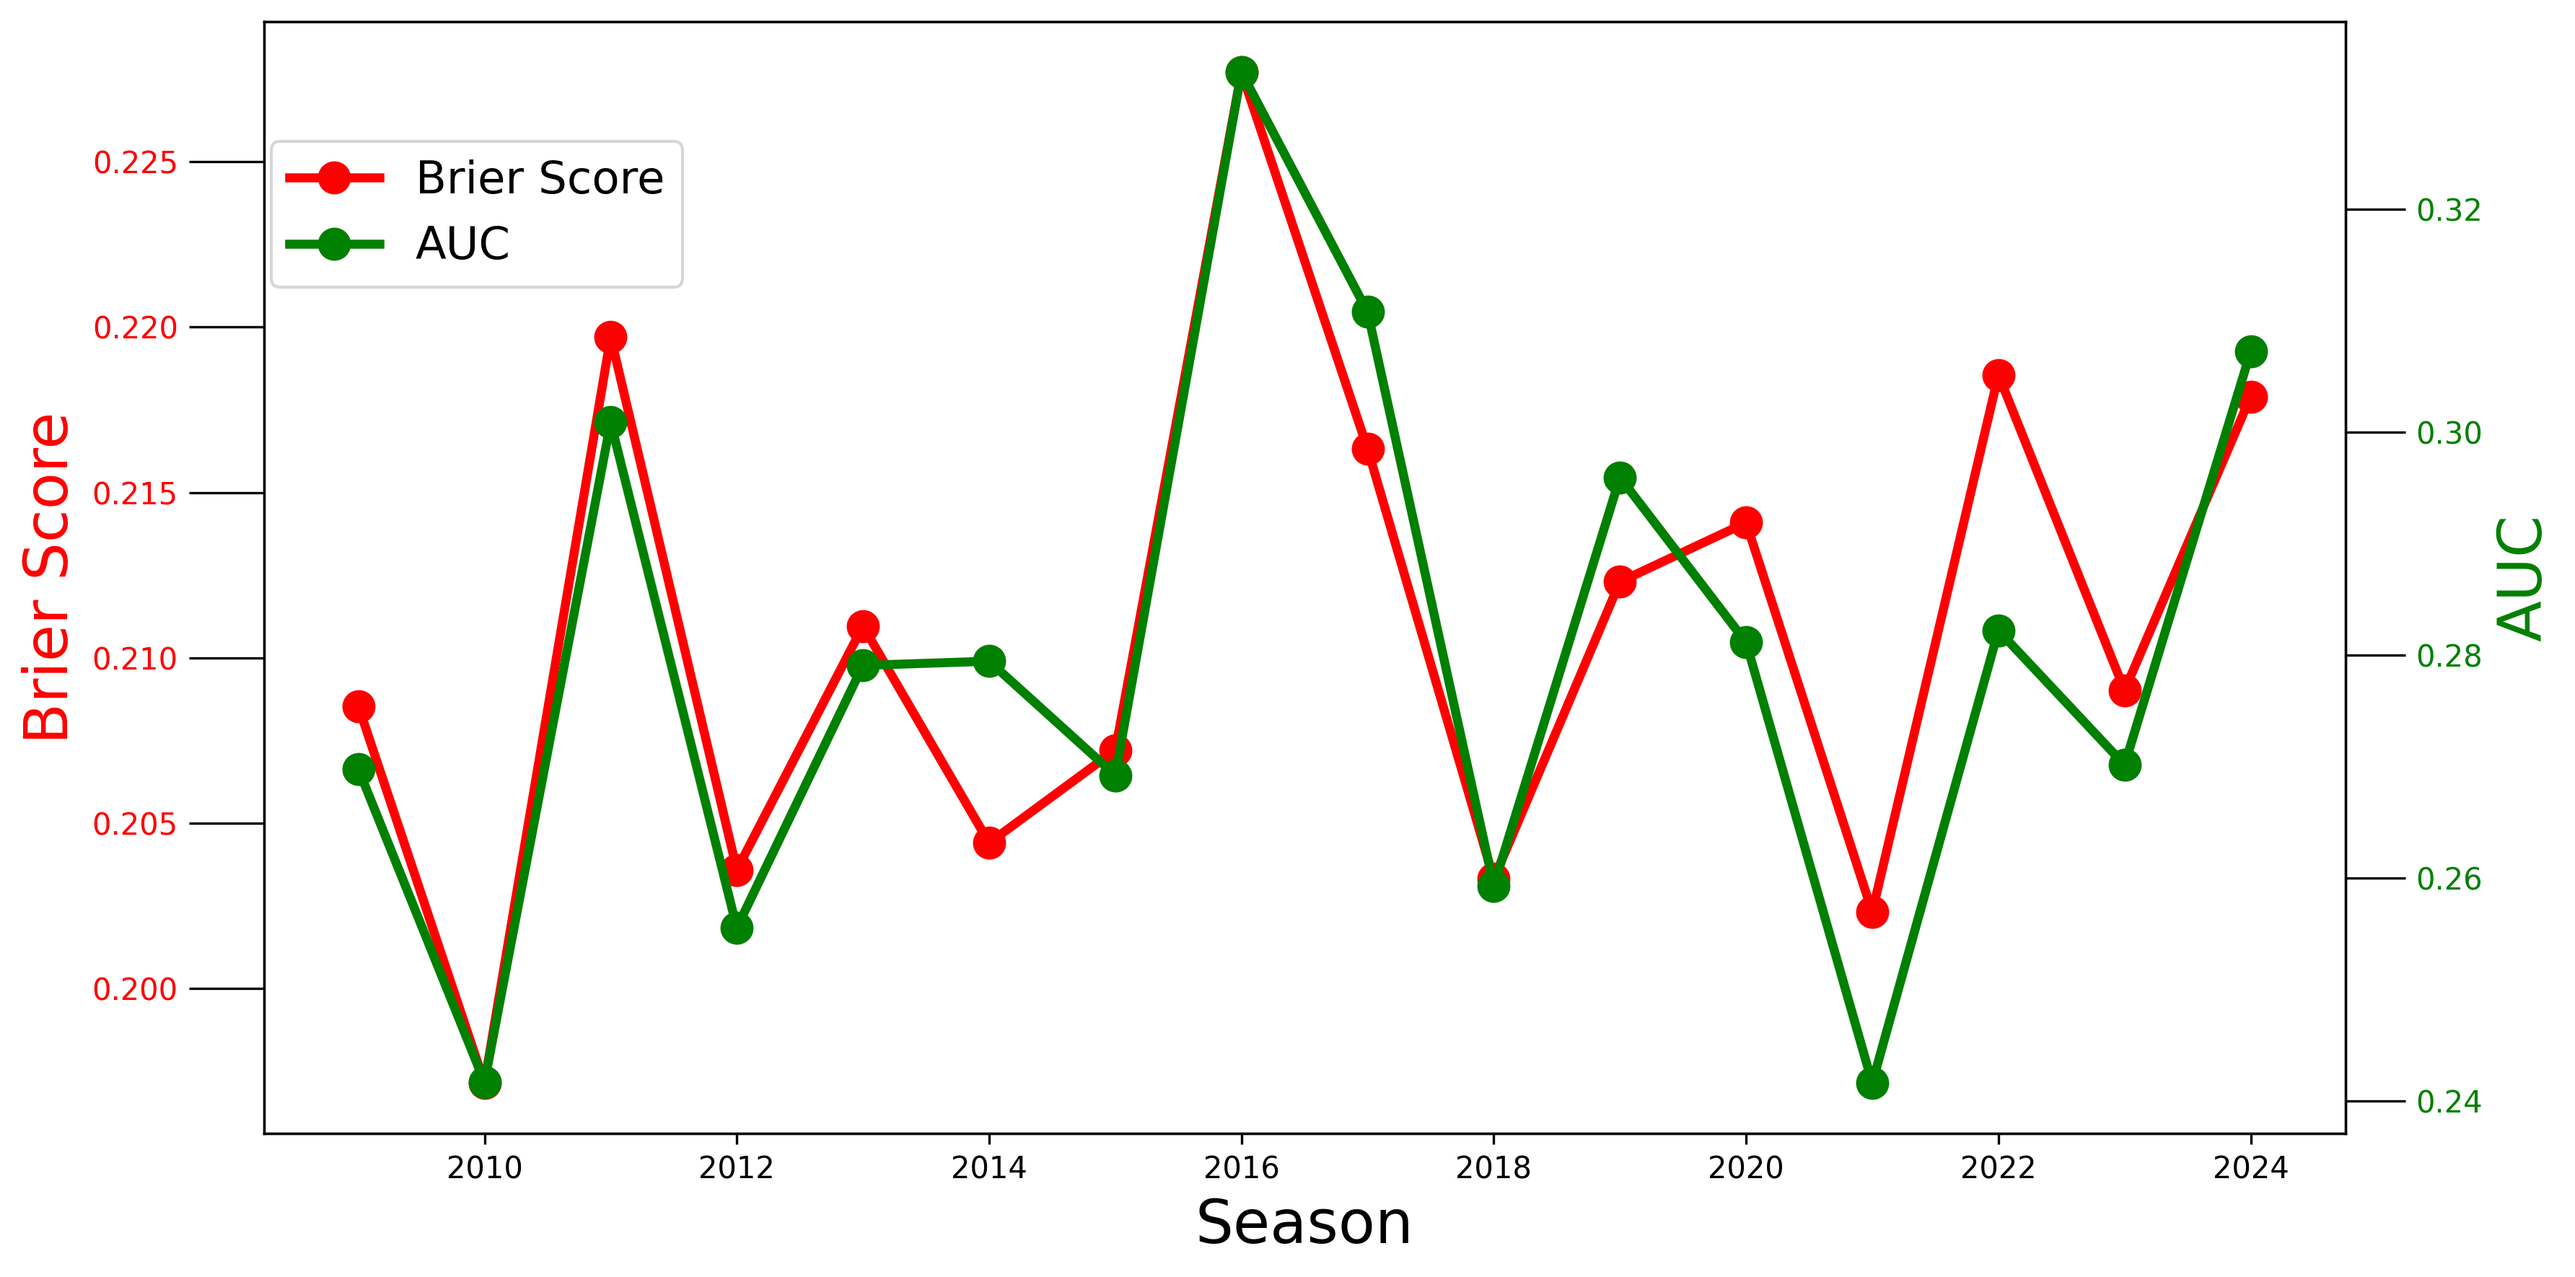
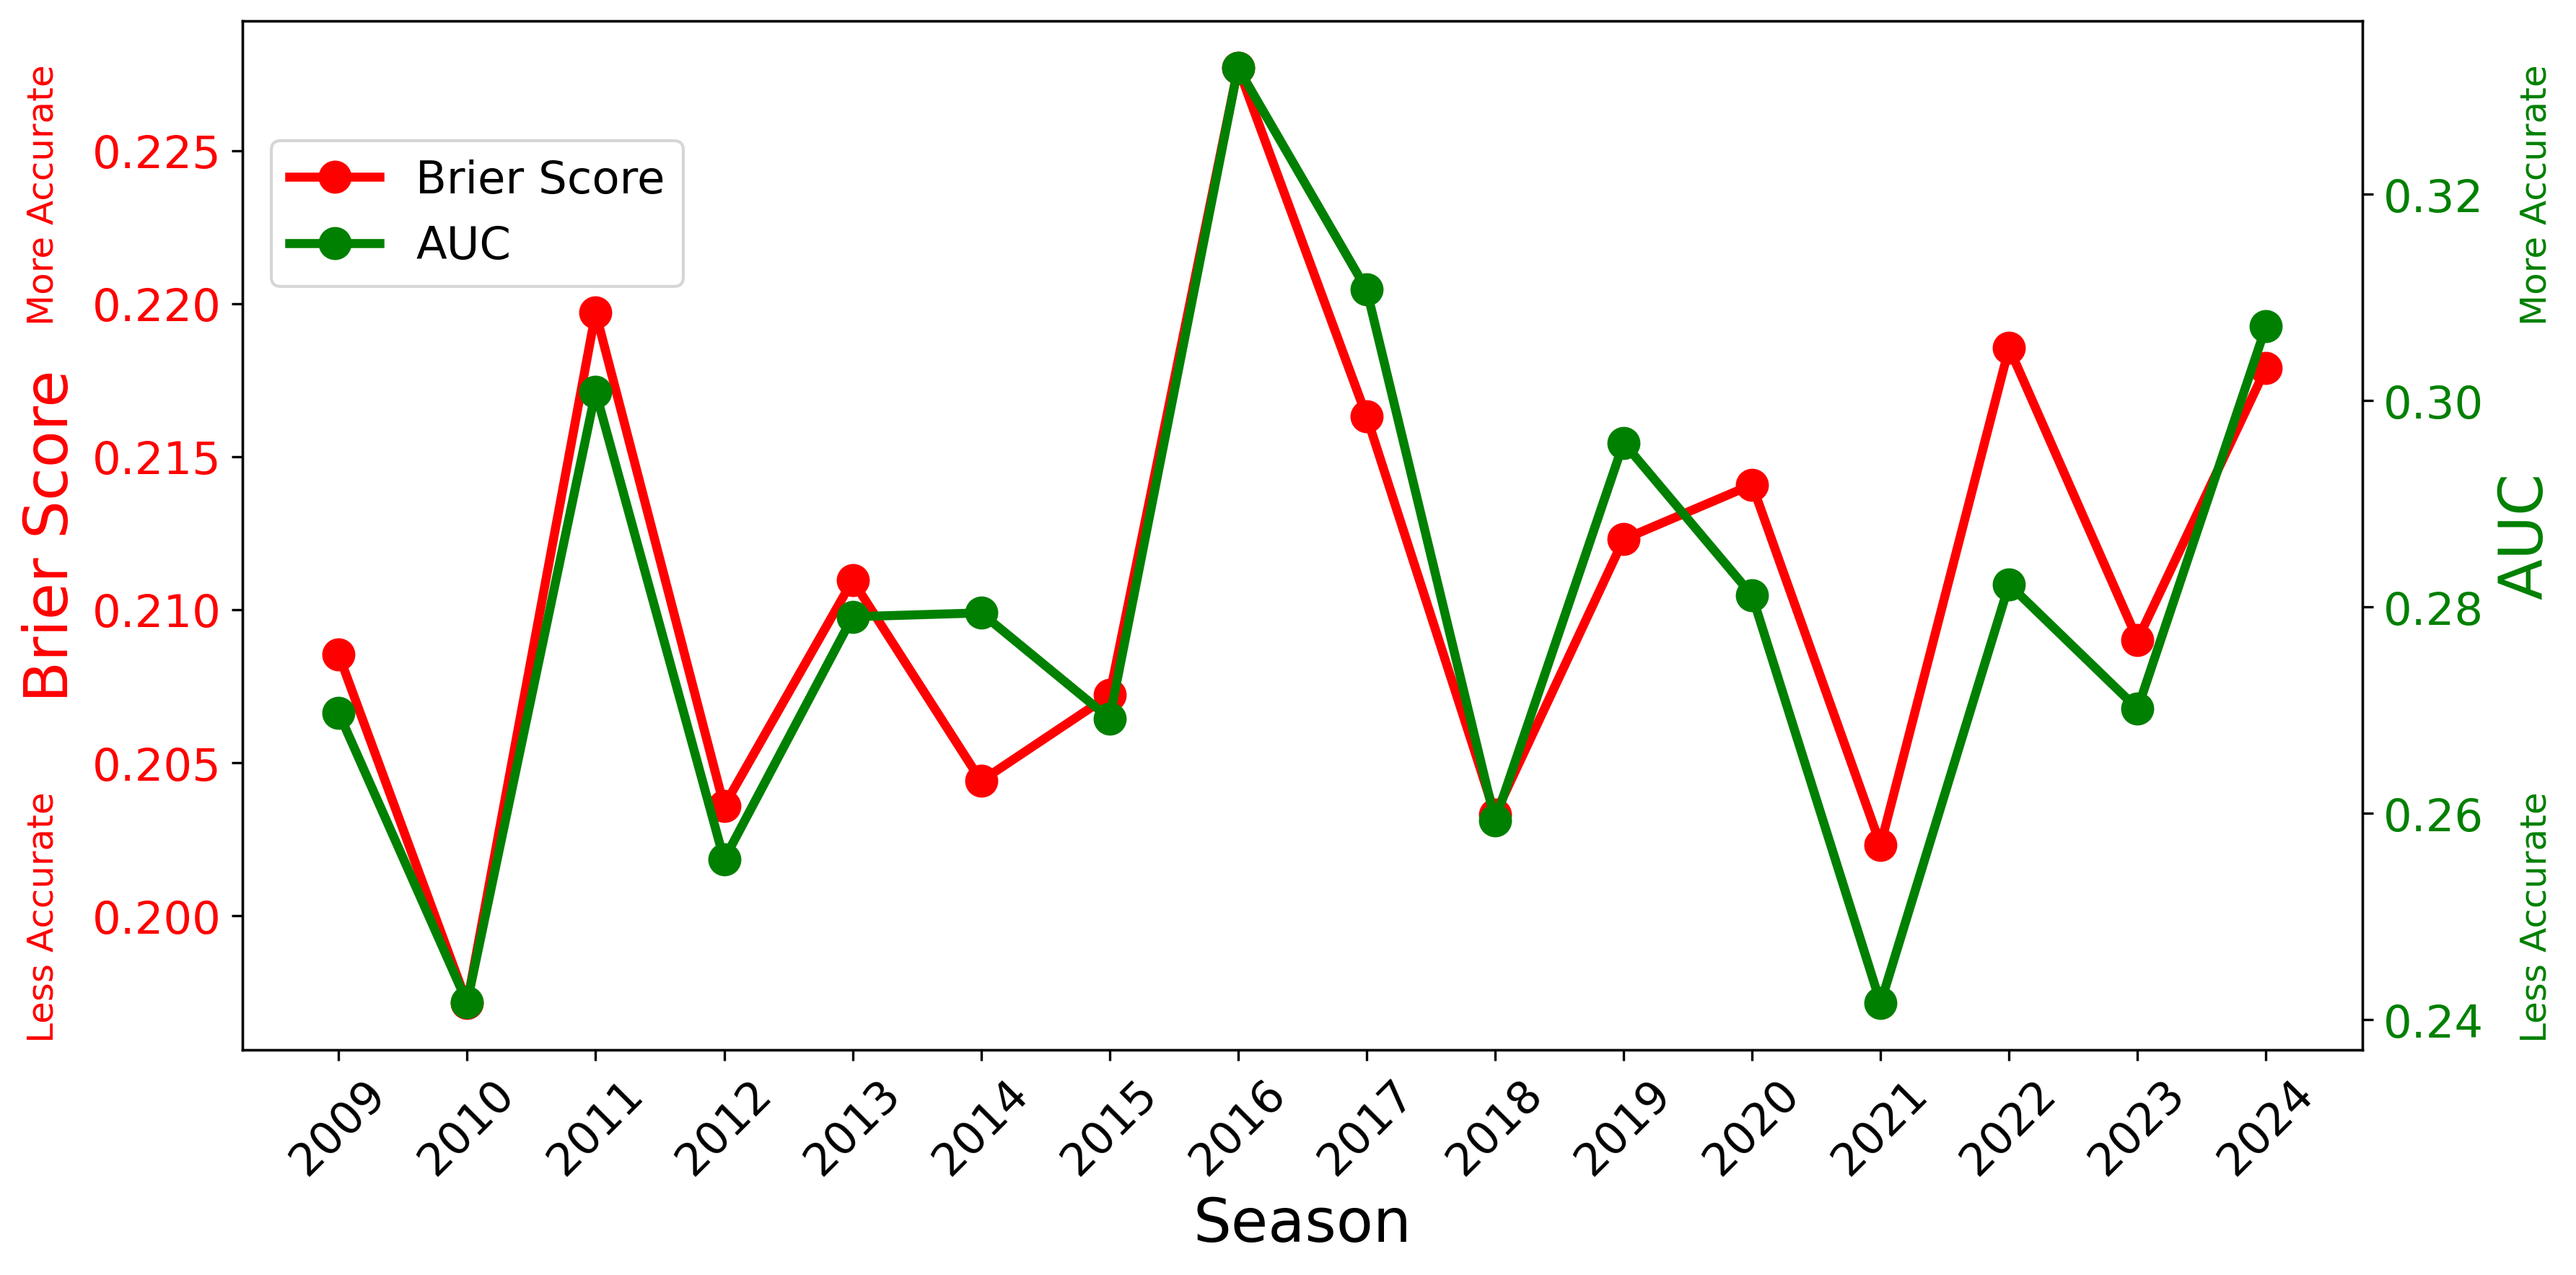
prettified some figures

diff --git a/src/graphing/overall_seasonal.py b/src/graphing/overall_seasonal.py
@@ -7,27 +7,29 @@ colors = ['blue', 'orange', 'red', 'purple']
 
 plt.figure(figsize=(10, 6))
 
-all_years = set()
-
+all_years = [str(year) for year in range(2009,2022)]
 for i, file_path in enumerate(file_paths):
     df = pd.read_csv(file_path)
+    df = df.sort_values(by="season")
+
+    season_years = df["season"].str.split("_").str[1]
     
-    df['year'] = df['season'].str.extract(r'_(\d{4})').astype(int)
-    
-    df = df[(df['year'] >= 2009) & (df['year'] <= 2021)]
-    
-    all_years.update(df['year'])
-    
-    plt.plot(df['year'], df['brier_score'], color=colors[i], label=leagues[i], marker = 'o', linewidth=3,markersize=10)
+    df_filtered = df[season_years.isin(all_years)]
+
+    plt.plot(season_years[season_years.isin(all_years)],
+             df_filtered['brier_score'], color=colors[i], label=leagues[i], marker='o', linewidth=3, markersize=10)
+
 
 all_years = sorted(all_years)
-plt.xticks(ticks=all_years, labels=[str(year) for year in all_years], rotation=45)
+plt.xticks(ticks=range(len(all_years)), labels=all_years, rotation=45)
 
 plt.ylim(0.15, 0.26)
 
 plt.xlabel("Season",fontsize=20)
 plt.ylabel("Brier Score",fontsize=20)
 plt.legend(fontsize=15)
+plt.text(-1.7, 0.245, "More Accurate", fontsize=12, ha='center', va='center',rotation=90)
+plt.text(-1.7, 0.165, "Less Accurate", fontsize=12, ha='center', va='center', rotation=90)
 plt.grid(True)
 plt.tick_params(axis='both', which='major', labelsize=15)
 

diff --git a/src/graphing/brier_score_by_model.py b/src/graphing/brier_score_by_model.py
@@ -5,6 +5,9 @@ results_df = pd.read_csv("results/nfl_by_model.csv")
 
 results_df = results_df.sort_values(by="season")
 
+season_years = results_df["season"].str.split("_").str[1]
+
+
 plt.figure(figsize=(10, 6))
 
 plt.plot(results_df["season"], results_df["moneyline_brier_score"], label="Betting Market", marker='o', color='green',linewidth=3,markersize=10)
@@ -12,13 +15,16 @@ plt.plot(results_df["season"], results_df["elo_brier_score"], label="Elo Model",
 plt.plot(results_df["season"], results_df["baseline_brier_score"], label="Home Bias Coinflip Model", marker='o', color='red',linewidth=3,markersize=10)
 plt.plot(results_df["season"], [0.25]*len(results_df["season"]), label="Coinflip Model", marker='o',color='black',linewidth=3,markersize=10)
 
-plt.xticks(ticks=range(len(results_df["season"])), labels=results_df["season"], rotation=45)
+plt.xticks(ticks=range(len(results_df["season"])), labels=season_years, rotation=45)
 plt.ylim(0.15,0.26)
 plt.xlabel("Season",fontsize=20)
-plt.ylabel("Brier Score",fontsize=20)
+plt.ylabel("Brier Score", fontsize=20)
+plt.text(-1.7, 0.245, "More Accurate", fontsize=12, ha='center', va='center',rotation=90)
+plt.text(-1.7, 0.165, "Less Accurate", fontsize=12, ha='center', va='center', rotation=90)
 plt.legend(fontsize=15)
 plt.grid(True)
 plt.tick_params(axis='both', which='major', labelsize=15)
+
 
 plt.tight_layout()
 

diff --git a/src/graphing/brier_vs_auc.py b/src/graphing/brier_vs_auc.py
@@ -14,19 +14,28 @@ fig, ax1 = plt.subplots(figsize=(12, 6))
 
 ax1.plot(x, y1, 'r-', label="Brier Score", marker='o', linewidth=3, markersize=10)
 ax1.set_ylabel("Brier Score", color="red", size=20)
-ax1.tick_params(axis='y', labelcolor="red", size=25)
+ax1.tick_params(axis='y', labelcolor="red", labelsize=15)
 ax1.set_xlabel("Season", size=20)
+
+ax1.set_xticks(x) 
+ax1.tick_params(axis='x', labelsize=15,rotation=45)
 
 ax2 = ax1.twinx()
 ax2.plot(x, 1-y2, 'g-', label="AUC", marker='o', linewidth=3, markersize=10)
 ax2.set_ylabel("AUC", color="green", size=20)
-ax2.tick_params(axis='y', labelcolor="green", size=20)
+ax2.tick_params(axis='y', labelcolor="green", labelsize=15)
 
 fig.legend(
     loc="upper left", bbox_to_anchor=(0.1, 0.9),
     labels=["Brier Score", "AUC"],
     fontsize=15
 )
+
+plt.text(2006.7, 0.32, "More Accurate", fontsize=12, ha='center', va='center',rotation=90,color="red")
+plt.text(2006.7, 0.25, "Less Accurate", fontsize=12, ha='center', va='center', rotation=90,color="red")
+
+plt.text(2026.1, 0.32, "More Accurate", fontsize=12, ha='center', va='center',rotation=90,color="green")
+plt.text(2026.1, 0.25, "Less Accurate", fontsize=12, ha='center', va='center', rotation=90,color="green")
 
 plt.tight_layout()
 plt.savefig("figures/nfl_brier_auc.png", dpi=300, bbox_inches='tight')

diff --git a/src/graphing/box_plot.py b/src/graphing/box_plot.py
@@ -1,0 +1,39 @@
+import pandas as pd
+import matplotlib.pyplot as plt
+
+leagues = ['MLB', 'NHL', 'NFL', 'NBA']
+csv_files = [
+    "processed_data/mlb_espn_combined.csv",  
+    "processed_data/nhl_espn_combined.csv", 
+    "processed_data/nfl_espn_combined_with_elo.csv",
+    "processed_data/nba_espn_combined.csv",
+]
+column_name = "avg_prob_1"
+colors = ['blue', 'orange', 'red', 'purple']
+
+dfs = [pd.read_csv(file) for file in csv_files]
+data = [df[column_name].dropna() for df in dfs]
+
+leagues_reversed = leagues[::-1]
+data_reversed = data[::-1]
+colors_reversed = colors[::-1]
+
+plt.figure(figsize=(10, 6))
+bp = plt.boxplot(data_reversed, patch_artist=True, labels=leagues_reversed, vert=False) 
+
+for patch, color in zip(bp['boxes'], colors_reversed):
+    patch.set_facecolor(color)
+    patch.set_linewidth(3)
+
+for element in ['whiskers', 'caps']:
+    plt.setp(bp[element], linewidth=2)
+plt.setp(bp['medians'], linewidth=2, color='black') 
+
+plt.ylabel("Leagues", fontsize=20)  
+plt.xlabel("Probabilistic Predictions", fontsize=20)
+plt.grid(True, linestyle="--", alpha=0.6)
+plt.xticks(fontsize=15)
+plt.yticks(fontsize=15)
+plt.tight_layout()
+
+plt.savefig("figures/prob_box_plot.png", dpi=300, bbox_inches='tight')

diff --git a/src/analysis/team_win_rate.py b/src/analysis/team_win_rate.py
@@ -1,0 +1,19 @@
+import pandas as pd
+
+df = pd.read_csv("processed_data/nfl_espn_combined_with_elo.csv")
+
+team_1_wins = df[['team_1', 'result']].copy()
+team_1_wins.columns = ['team', 'win']
+team_1_wins['win'] = team_1_wins['win']
+
+team_2_wins = df[['team_2', 'result']].copy()
+team_2_wins.columns = ['team', 'win']
+team_2_wins['win'] = 1 - team_2_wins['win']
+
+all_teams = pd.concat([team_1_wins, team_2_wins])
+
+win_rates = all_teams.groupby('team')['win'].mean()
+
+win_rates_df = win_rates.reset_index().rename(columns={'win': 'win_rate'}).sort_values(by='win_rate', ascending=False)
+
+win_rates_df.to_csv("results/nfl_team_win_rates.csv", index=False)

diff --git a/src/graphing/brier_vs_win_rate.py b/src/graphing/brier_vs_win_rate.py
@@ -1,0 +1,17 @@
+import pandas as pd
+import matplotlib.pyplot as plt
+
+winrates_df = pd.read_csv("results/nfl_team_win_rates.csv")
+brier_scores_df = pd.read_csv("results/nfl_by_team.csv")
+
+merged_df = pd.merge(winrates_df, brier_scores_df, on='team')
+
+plt.figure(figsize=(8, 6))
+plt.scatter(merged_df['win_rate'], merged_df['brier_score'], color='blue', alpha=0.7)
+
+plt.xlabel('Win Rate', fontsize=14)
+plt.ylabel('Brier Score', fontsize=14)
+
+plt.grid(True, linestyle='--', alpha=0.6)
+plt.tight_layout()
+plt.savefig("figures/nfl_brier_vs_win_rate.png", dpi=300, bbox_inches='tight')

diff --git a/src/graphing/by_team_sorted.py b/src/graphing/by_team_sorted.py
@@ -39,6 +39,10 @@ ax.set_ylabel("Brier Score", fontsize=20)
 plt.tick_params(axis='y', which='major', labelsize=15)
 
 plt.ylim(0.15, 0.26)
+
+plt.text(-4, 0.245, "More Accurate", fontsize=12, ha='center', va='center',rotation=90)
+plt.text(-4, 0.165, "Less Accurate", fontsize=12, ha='center', va='center', rotation=90)
+
 plt.tight_layout()
 
 plt.savefig(f'figures/{league}_brier_by_team_sorted.png', dpi=300, bbox_inches='tight')
